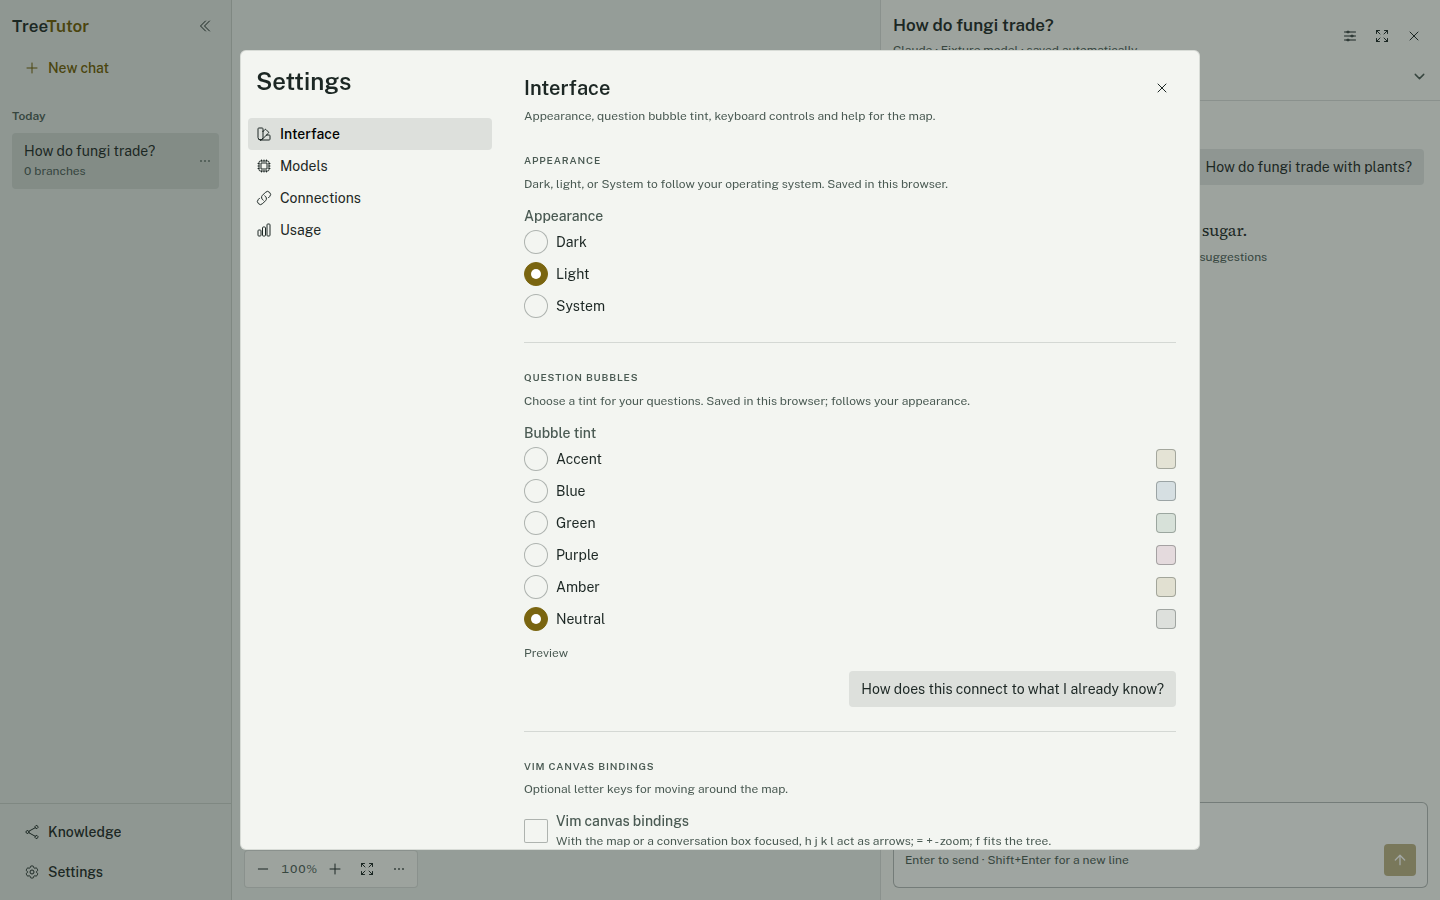
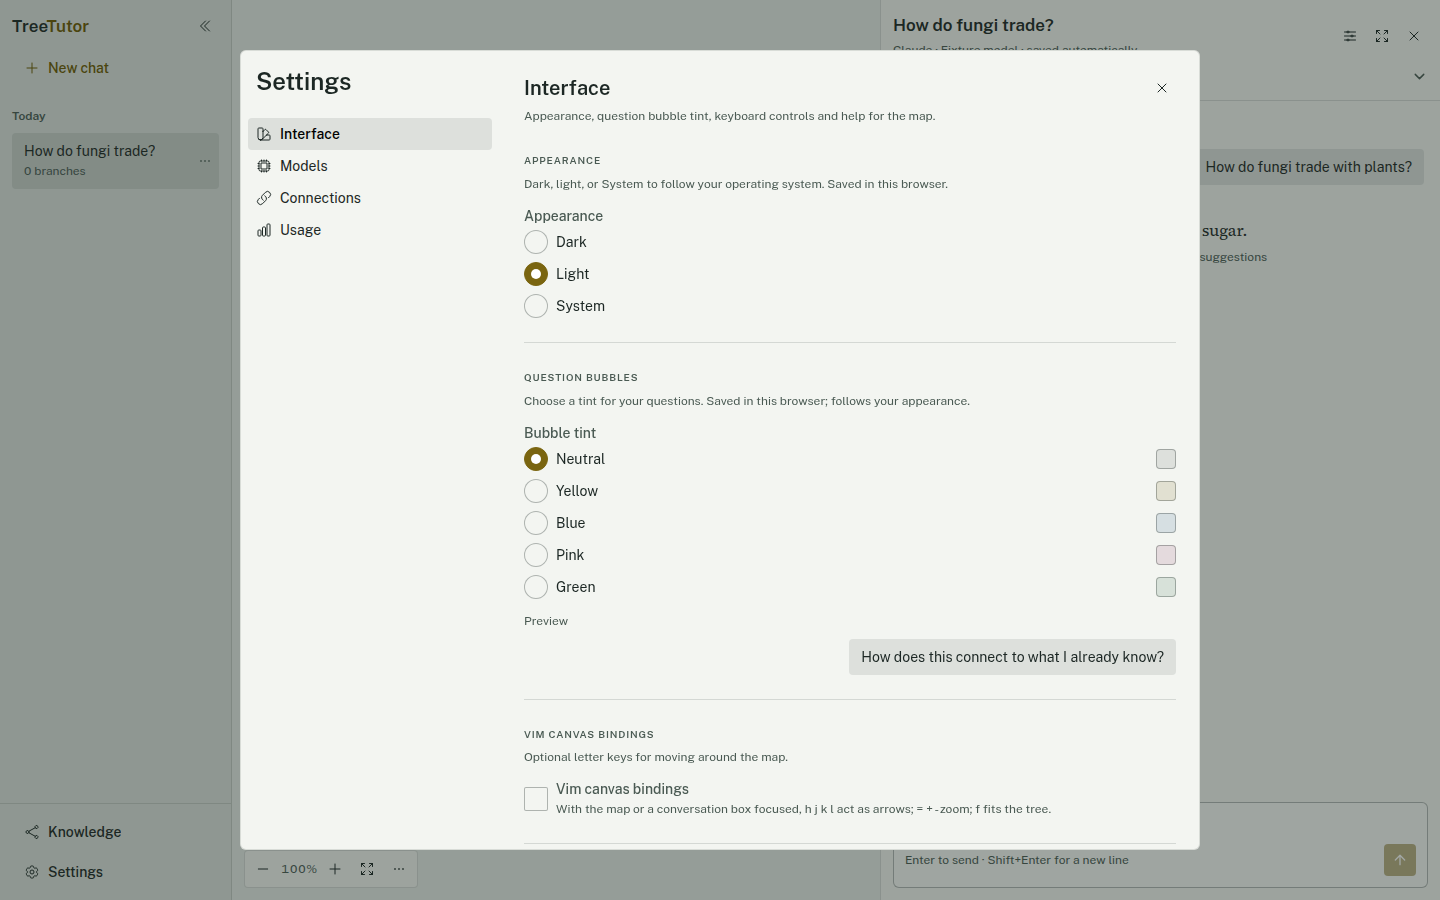
task: TreeTutor-nwx.11 Bubble tint presets and Mermaid palette

diff --git a/src/mermaid.ts b/src/mermaid.ts
@@ -2,7 +2,18 @@ import mermaid from 'mermaid';
 
 // Mermaid has global configuration. Keep each theme initialization with its queued render.
 let queue = Promise.resolve();
-export function renderDiagram(source: string, style: CSSStyleDeclaration, dark: boolean): Promise<string> {
+// Series order from the spec: yellow, blue, pink, green chalk, resolved for the current appearance.
+const hues = ['yellow', 'blue', 'pink', 'green'];
+export function renderDiagram(source: string, card: HTMLElement, dark: boolean): Promise<string> {
+  const style = getComputedStyle(card);
+  const probe = card.appendChild(document.createElement('span'));
+  const series = hues.map(hue => { probe.style.color = `var(--color-text-${hue})`; return getComputedStyle(probe).color; });
+  probe.remove();
+  // Series fills carry surface-coloured labels; chalk hues are light in dark and dark in light.
+  const seriesVariables = Object.fromEntries(series.flatMap((color, i) => [
+    [`cScale${i}`, color], [`cScaleLabel${i}`, style.backgroundColor], [`pie${i + 1}`, color],
+    [`git${i}`, color], [`gitBranchLabel${i}`, style.backgroundColor],
+  ]));
   const render = queue.then(async () => {
     mermaid.initialize({
       startOnLoad: false, securityLevel: 'strict', htmlLabels: false,
@@ -14,6 +25,9 @@ export function renderDiagram(source: string, style: CSSStyleDeclaration, dark: 
         primaryColor: style.backgroundColor, secondaryColor: style.backgroundColor, tertiaryColor: style.backgroundColor,
         primaryTextColor: style.color, secondaryTextColor: style.color, tertiaryTextColor: style.color, textColor: style.color, lineColor: style.color,
         primaryBorderColor: style.borderColor, secondaryBorderColor: style.borderColor, tertiaryBorderColor: style.borderColor, fontFamily: style.fontFamily,
+        pieSectionTextColor: style.backgroundColor, pieStrokeColor: style.backgroundColor, pieOuterStrokeColor: style.borderColor,
+        pieTitleTextColor: style.color, pieLegendTextColor: style.color, pieOpacity: '1',
+        ...seriesVariables, xyChart: { plotColorPalette: series.join(',') },
       },
     });
     const { svg } = await mermaid.render(`diagram-${crypto.randomUUID()}`, source);

diff --git a/src/ChatPage.tsx b/src/ChatPage.tsx
@@ -18,7 +18,7 @@ import type { Point, Viewport } from './canvas';
 import DiagramCard from './DiagramCard';
 import VideoCard from './VideoCard';
 import SettingsWindow, { type SettingsRequest, type SettingsTab } from './SettingsWindow';
-import { bubbleTints, type BubbleTint } from './bubbleTint';
+import { bubbleTints, savedTint, type BubbleTint } from './bubbleTint';
 import type { Appearance } from './appearance';
 import { DEFAULT_CHAT_WIDTH, MIN_CHAT_WIDTH, clampChatWidth, keyChatWidth, maxChatWidth, resetChatWidth, savedChatWidth } from './chatWidth';
 import KnowledgePage, { type Graph } from './KnowledgePage';
@@ -202,8 +202,8 @@ export default function ChatPage({ appearance, setAppearance }: { appearance: Ap
   // Only this boolean is stored, per browser and app origin; unreadable storage means off.
   const [vim, setVim] = useState(() => { try { return localStorage.getItem('treetutor.vim') === 'on'; } catch { return false; } });
   const [bubbleTint, setBubbleTint] = useState<BubbleTint>(() => {
-    try { const saved = localStorage.getItem('treetutor.bubble-tint'); return bubbleTints.find(t => t.id === saved)?.id ?? 'neutral'; }
-    catch { return 'accent'; }
+    try { return savedTint(localStorage.getItem('treetutor.bubble-tint')); }
+    catch { return 'neutral'; }
   });
   const [chatWidth, setChatWidth] = useState(() => { try { return savedChatWidth(localStorage.getItem('treetutor.chat-width')); } catch { return DEFAULT_CHAT_WIDTH; } });
   const [workspaceWidth, setWorkspaceWidth] = useState(() => window.innerWidth / remPx());

diff --git a/src/bubbleTint.ts b/src/bubbleTint.ts
@@ -1,10 +1,14 @@
+// Neutral (12% chalk) plus the four chalk hues; each token is a [light, dark] theme tuple.
 export const bubbleTints = [
-  { id: 'accent', label: 'Accent', color: 'var(--color-accent-muted)' },
-  { id: 'blue', label: 'Blue', color: 'var(--color-background-blue)' },
-  { id: 'green', label: 'Green', color: 'var(--color-background-green)' },
-  { id: 'purple', label: 'Purple', color: 'var(--color-background-purple)' },
-  { id: 'amber', label: 'Amber', color: 'var(--color-background-yellow)' },
   { id: 'neutral', label: 'Neutral', color: 'var(--color-neutral)' },
+  { id: 'yellow', label: 'Yellow', color: 'var(--color-background-yellow)' },
+  { id: 'blue', label: 'Blue', color: 'var(--color-background-blue)' },
+  { id: 'pink', label: 'Pink', color: 'var(--color-background-pink)' },
+  { id: 'green', label: 'Green', color: 'var(--color-background-green)' },
 ] as const;
 
 export type BubbleTint = typeof bubbleTints[number]['id'];
+
+// Presets saved before the slate palette map to their nearest chalk hue.
+const legacy: Record<string, BubbleTint> = { accent: 'yellow', amber: 'yellow', purple: 'pink' };
+export const savedTint = (saved: string | null): BubbleTint => bubbleTints.find(t => t.id === saved)?.id ?? legacy[saved ?? ''] ?? 'neutral';

diff --git a/src/DiagramCard.tsx b/src/DiagramCard.tsx
@@ -17,7 +17,7 @@ export default function DiagramCard({ artifact }: { artifact: Artifact }) {
     setDrawing({ status: 'pending' });
     void renderArtifact(artifact, async source => {
       const { renderDiagram } = await import('./mermaid');
-      return renderDiagram(source, getComputedStyle(card.current!), mode === 'dark');
+      return renderDiagram(source, card.current!, mode === 'dark');
     }).then(state => { if (!cancelled) setDrawing(state); });
     return () => { cancelled = true; };
   }, [artifact.id, artifact.status, artifact.source, mode]);

diff --git a/docs/visual-identity-spec.md b/docs/visual-identity-spec.md
@@ -55,6 +55,8 @@ Pinned inputs the roll must respect:
 6. **Dialogs and menus.** Delete confirmation: raised slate, the destructive button outlined in the alert colour and separated from Cancel by space, filled only on focus. Model menu: plain list on raised slate, current model marked with a yellow check, signed-out providers in muted text with their sign-in action. Passage prompt box: anchored to the selection, raised slate, yellow ring, compact. If the prompt would overlap the chat header above its passage, open it below the passage instead; recheck when the prompt grows or the viewport/reading position changes.
    Dialog and menu details: every floating surface uses the theme popover or surface fill with the inset hairline, never a drop shadow. The delete confirmation keeps its title naming the chat or branch and its consequence text (conversation count, what is permanently deleted, active work stopping, “This cannot be undone.”); Keep conversations keeps initial focus, and Delete is an alert-outlined ghost at least 24px from it that fills with the alert colour on keyboard focus. In the model menu the current model shows a yellow check in the radio slot (still a menu radio for assistive tech); a signed-out or unset provider's group label reads “Provider · not connected” in muted text above its existing sign-in or settings action. The map menu and the rows' overflow menu are the same plain list. Rename stays the inline title field where it was opened. The passage prompt has 6px corners, a 1px chalk-yellow ring on the popover fill and keeps its 28rem maximum width.
 7. **Mermaid diagram theming.** Mermaid reads the resolved appearance; nodes in raised slate with chalk-white text and hairline strokes, edges chalk-white, one series per chalk hue (yellow, blue, pink, green) in that order; light appearance uses the darkened chalk set.
+   Series details: series fills (pie slices, mindmap/timeline sections, git branches, xy plots) are solid chalk hues from the theme's text-hue tokens, with labels in the raised-slate surface colour on top; pie slices are fully opaque.
+   Bubble tint presets: Neutral (default, the 12%-chalk fill), Yellow, Blue, Pink, Green, each the theme's chalk-hue background token resolved per appearance. Question text must meet WCAG AA on every preset over the chat surface in both appearances. Presets saved under the old palette map to the nearest hue (Accent and Amber to Yellow, Purple to Pink).
 
 ### Optional features
 

diff --git a/docs/verification/palette.md b/docs/verification/palette.md
@@ -1,0 +1,28 @@
+# Bubble tints and Mermaid palette (TreeTutor-nwx.11)
+
+Built app, isolated SQLite, synthetic providers, agent-browser Chromium at 1440x900. Fixture evidence only, no live provider.
+
+## Bubble tint presets
+
+The presets are Neutral (the default), Yellow, Blue, Pink and Green. Each one uses a chalk-hue theme token, so it resolves per appearance through `light-dark()`. The old ids still work: Accent and Amber map to Yellow, and Purple maps to Pink (`src/bubbleTint.ts`).
+
+Question text contrast on each fill, composited over the chat surface. Measured in the rendered app (`palette-results.json`):
+
+| Appearance | Neutral | Yellow | Blue | Pink | Green |
+|---|---|---|---|---|---|
+| Dark | 7.84 | 7.02 | 7.38 | 7.58 | 7.20 |
+| Light | see `palette-results.json` (lowest 11.35) |||||
+
+`test/bubble-tint.test.mjs` runs the same check against the theme source in `npm test`.
+
+## Mermaid
+
+Nodes use the raised slate surface with chalk text and hairline strokes, and edges use chalk. Series (pie, cScale, git and xy palettes) use the theme's yellow, blue, pink and green chalk tokens, in that order. They are read from the card in its current appearance. Labels on series fills use the surface colour. Pie slices are opaque.
+
+## Screenshots
+
+- `palette-diagrams-dark.png`, `palette-diagrams-light.png`: pie chart in the chat
+- `palette-bubble-pink-dark.png`, `palette-bubble-pink-light.png`: Pink bubble after choosing it in Settings
+- `palette-tints-settings-dark.png`, `palette-tints-settings-light.png`: chalk swatches in Settings
+
+Reproduce with `npm run build && node scripts/verify-palette.mjs`. `npm run verify` discovers the script.
